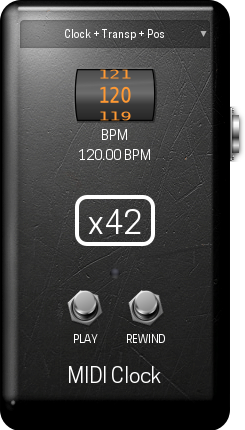
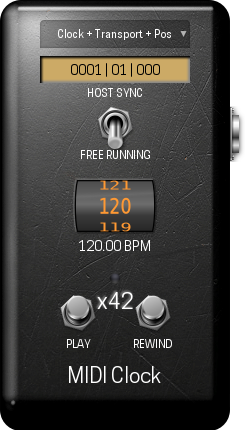
Tweak MOD-GUI: add sync-switch and BBT display

diff --git a/modgui/stylesheet-mclk.css b/modgui/stylesheet-mclk.css
@@ -30,17 +30,17 @@
     position:absolute;
     right:0;
     text-align:center;
-    top:185px;
+    bottom:115px;
 }
 
 .x42-mclk{{{cns}}} .x42-brand h1 {
-    border-radius:12px;
-    border-style:solid;
-    border-width:4px;
+    border: none;
     display:inline-block;
     font-family:"Nexa";
-    font-size:32px;
-    padding:3px 9px 0;
+    font-size:22px;
+    padding:0;
+    margin:0;
+    text-shadow: -1px -1px 1px #aaa;
 }
 
 .x42-mclk{{{cns}}} .x42-plugin-name {
@@ -58,25 +58,29 @@
     line-height:1;
 }
 
-/* = LIGHT ON/OFF
-================================================ */
-.x42-mclk{{{cns}}} .mod-light {
-    background-position:center center;
-    background-repeat:no-repeat;
-    height:32px;
-    left:10px;
-    position:absolute;
-    right:10px;
-    top:235px;
-}
-
-/* = KNOBS
+/* = Controls
 ================================================ */
 .x42-mclk{{{cns}}} .mod-control-group {
-    margin:10px !important;
+    margin:5px 10px!important;
     position:relative;
     text-align:center;
     z-index:30;
+}
+
+.x42-mclk{{{cns}}} .mod-bbt-group {
+    background-color:#ccaa66;
+    margin:5px 40px 5px 40px !important;
+    position:relative;
+    text-align:center;
+    z-index:30;
+    color:black;
+    box-shadow: 2px 2px 2px 0px #000 inset, -1px -1px 1px 1px #888 inset;
+}
+
+.x42-mclk{{{cns}}} .mod-bbt-group div {
+    padding: 4px 0 2px 0;
+    line-height:1.5em;
+    vertical-align:middle;
 }
 
 .x42-mclk{{{cns}}} .mod-control-group .mod-knob {
@@ -113,6 +117,55 @@
     margin:4px auto 0 auto;
 }
 
+.x42-mclk{{{cns}}} .mod-control-group .mod-knob-image.host-sync {
+    background-image:url(/resources/sync.png{{{ns}}});
+    background-repeat:no-repeat;
+    height:60px;
+    width:88px;
+    margin:0 auto;
+    margin:4px auto 0 auto;
+}
+
+.x42-mclk{{{cns}}} .mod-control-group.insensitive {
+    display:none;
+}
+
+.x42-mclk{{{cns}}} .mod-control-group .mod-sync-knob {
+    overflow:hidden;
+    position:relative;
+    display:inline-block;
+    height:74px;
+    margin: 0 14px;
+}
+
+.x42-mclk{{{cns}}} .mod-control-group .mod-sync-knob > span.mod-knob-title-on,
+.x42-mclk{{{cns}}} .mod-control-group .mod-sync-knob > span.mod-knob-title-off
+{
+    display:block;
+    font-size:11px;
+    font-weight:bold;
+    height:12px;
+    left:0;
+    line-height:1;
+    margin:0;
+    overflow:hidden;
+    padding:0;
+    position:absolute;
+    right:0;
+    text-transform:uppercase;
+}
+
+.x42-mclk{{{cns}}} .mod-control-group .mod-sync-knob > span.mod-knob-title-on
+{
+    top:0px;
+}
+
+.x42-mclk{{{cns}}} .mod-control-group .mod-sync-knob > span.mod-knob-title-off
+{
+    bottom:0px;
+}
+
+
 .x42-mclk{{{cns}}} .led-group {
     margin:10px auto 0 auto;
     left:10px;
@@ -129,8 +182,23 @@
     bottom:70px;
 }
 
-/* = Push Buttons
-================================================ */
+
+.x42-mclk{{{cns}}} .mod-togglebutton {
+    background-image:url(/resources/switch.png{{{ns}}});
+    background-position:bottom center;
+    background-repeat:no-repeat;
+    background-size:auto 128px;
+    cursor:pointer;
+    height:64px;
+    margin: 4px auto 0 auto;
+    width: 88px;
+}
+
+.x42-mclk{{{cns}}} .mod-togglebutton.on {
+    background-position: top center !important;
+}
+
+
 .x42-mclk{{{cns}}} .mod-pushbutton {
     background-image:url(/resources/footswitch.png{{{ns}}});
     background-position:top center;
@@ -166,7 +234,7 @@
     height:31px;
     margin:20px auto 0 !important;
     position:relative;
-    width:190px;
+    width:150px;
     z-index:35;
 }
 

diff --git a/modgui/icon-mclk.html b/modgui/icon-mclk.html
@@ -17,17 +17,39 @@
         {{/controls.0}}
     </div>
 
+    <div class="mod-bbt-group clearfix">
+        <div>
+            <span class="bbt" mod-role="bbt_bar">00</span>
+            <span>|</span>
+            <span class="bbt" mod-role="bbt_beat">00</span>
+            <span>|</span>
+            <span class="bbt" mod-role="bbt_tick">00</span>
+        </div>
+    </div>
+
     <div class="mod-control-group clearfix">
-			<div class="mod-knob-image" mod-role="input-control-port" mod-port-symbol="bpm"></div>
-			<span class="mod-knob-right-title">BPM</span>
-			<div class="mod-knob-value" contenteditable="true" mod-role="input-control-value" mod-port-symbol="bpm"></div>
-		</div>
+        <div class="mod-sync-knob" title="Host Sync">
+            <div class="mod-togglebutton off" mod-widget="switch" mod-role="input-control-port" mod-port-symbol="sync"></div>
+            <span class="mod-knob-title-on">Host Sync</span>
+            <span class="mod-knob-title-off">Free Running</span>
+        </div>
+    </div>
 
-		<div class="mod-control-group clearfix led-group">
-			<div mod-port-symbol="transport" mod-role="input-control-port" class="x42-led on"></div>
-		</div>
+    <div class="mod-control-group clearfix" mod-role="bpm-control">
+        <div class="mod-knob-image" mod-role="input-control-port" mod-port-symbol="bpm"></div>
+        <div class="mod-knob-value" contenteditable="true" mod-role="input-control-value" mod-port-symbol="bpm"></div>
+    </div>
 
-		<div class="mod-control-group clearfix bottom-group">
+    <div class="mod-control-group clearfix insensitive" mod-role="bpm-display">
+        <div class="mod-knob-image host-sync"></div>
+        <div class="mod-knob-value" mod-role="bpm-value">XXX.XX</div>
+    </div>
+
+    <div class="mod-control-group clearfix led-group">
+        <div mod-port-symbol="transport" mod-role="input-control-port" class="x42-led on"></div>
+    </div>
+
+    <div class="mod-control-group clearfix bottom-group">
         <div class="mod-knob" title="Play/Pause in 'Free Run' mode (start/stop/continue)">
             <div class="mod-pushbutton off" mod-widget="switch" mod-role="input-control-port" mod-port-symbol="transport"></div>
             <span class="mod-knob-title">Play</span>

diff --git a/modgui/script-mclk.js b/modgui/script-mclk.js
@@ -1,0 +1,52 @@
+function (event) {
+
+	function format_bbt (v, pad) {
+		var s = "0000" + v;
+		return s.substr (s.length - pad);
+	}
+
+	function format_bpm (value) {
+		return value.toFixed (2);
+	}
+
+	function set_hostbpm (hostbpm) {
+		if (isNaN (hostbpm)) { return; }
+		if (hostbpm <= 0) {
+			event.icon.find("[mod-role=bpm-display]").each(function () { $(this).addClass("insensitive"); });
+			event.icon.find("[mod-role=bpm-control]").each(function () { $(this).removeClass("insensitive"); });
+		} else {
+			event.icon.find("[mod-role=bpm-control]").each(function () { $(this).addClass("insensitive"); });
+			event.icon.find("[mod-role=bpm-display]").each(function () { $(this).removeClass("insensitive"); });
+			event.icon.find("[mod-role=bpm-value]").text (format_bpm (hostbpm) + " BPM");
+		}
+	}
+
+	function handle_event (symbol, value) {
+		switch (symbol) {
+			case 'bbt_bar':
+				event.icon.find ('[mod-role=bbt_bar]').text (format_bbt (value, 4));
+				break;
+			case 'bbt_beat':
+				event.icon.find ('[mod-role=bbt_beat]').text (format_bbt (value, 2));
+				break;
+			case 'bbt_tick':
+				event.icon.find ('[mod-role=bbt_tick]').text (format_bbt (value, 3));
+				break;
+			case 'hostbpm':
+				set_hostbpm (parseFloat(value));
+				break;
+			default:
+				break;
+		}
+	}
+
+	if (event.type == 'start') {
+		var ports = event.ports;
+		for (var p in ports) {
+			handle_event (ports[p].symbol, ports[p].value);
+		}
+	}
+	else if (event.type == 'change') {
+		handle_event (event.symbol, event.value);
+	}
+}

diff --git a/src/mclk.c b/src/mclk.c
@@ -76,6 +76,7 @@ typedef struct {
 	float* p_rewind;
 	float* p_hostbpm;
 	float* p_songpos;
+	float* p_bbt[3];
 
 	/* Cached Ports */
 	float c_mode;
@@ -343,6 +344,15 @@ connect_port (LV2_Handle instance,
 		case 8:
 			self->p_songpos = (float*)data;
 			break;
+		case 9:
+			self->p_bbt[0] = (float*)data;
+			break;
+		case 10:
+			self->p_bbt[1] = (float*)data;
+			break;
+		case 11:
+			self->p_bbt[2] = (float*)data;
+			break;
 		default:
 			break;
 	}
@@ -511,6 +521,14 @@ run (LV2_Handle instance, uint32_t n_samples)
 
 noroll:
 	*self->p_songpos = bb;
+
+	int bpb = 4;
+	if (self->host_info && *self->p_sync > 0) {
+		bpb = self->host_div;
+	}
+	*self->p_bbt[0] = 1.f + floor (bb / bpb);
+	*self->p_bbt[1] = 1.f + ((int) floor (bb) % bpb);
+	*self->p_bbt[2] = floor (fmod (bb, 1.f) * 960.f);
 
 	/* keep track of host position.. */
 	if (self->host_info) {
